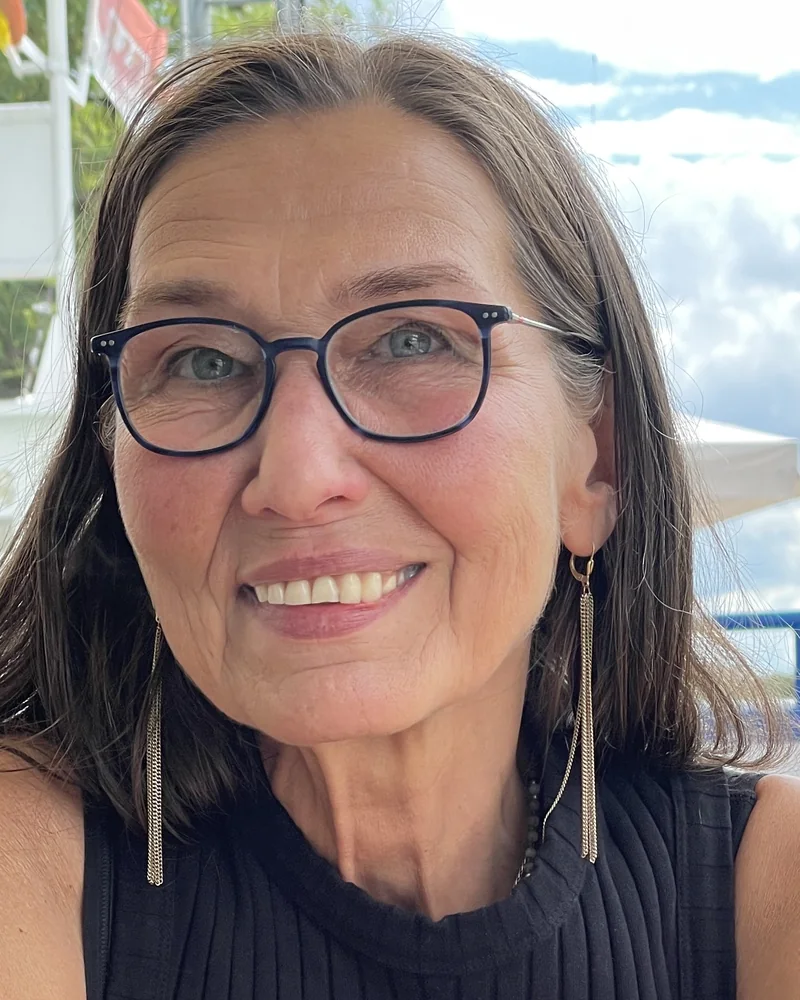
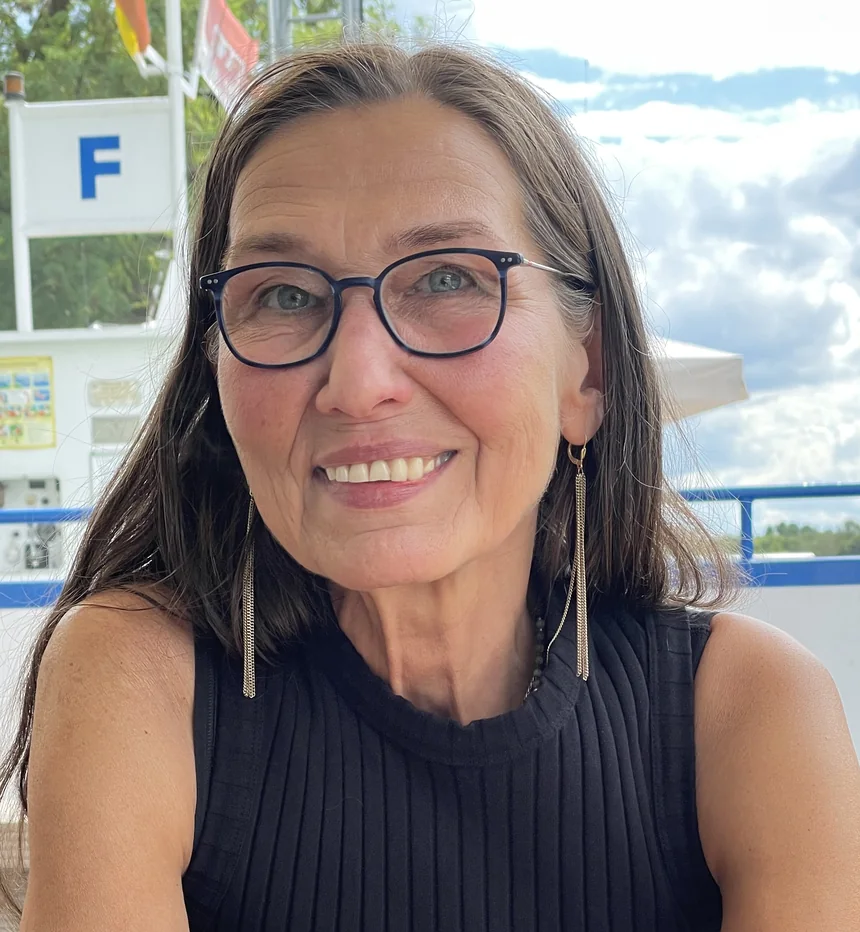
Entwurf aktualisiert, 11.08.2026

diff --git a/index.html b/index.html
@@ -8,13 +8,13 @@
 <title>Govindas Higher Taste, veganes und vegetarisches Catering in Potsdam</title>
 <meta name="description" content="Regionaler Catering-Service aus Potsdam, vegan und vegetarisch unter der Leitung von Katharina Rauch. Für Feiern, Hochzeiten und jedes andere besondere Event.">
 <meta name="theme-color" content="#053014">
-<link rel="icon" href="assets/img/zeichen.png?v=202608110247">
-<link rel="preload" href="assets/fonts/fraunces-latin.woff2?v=202608110247" as="font" type="font/woff2" crossorigin>
-<link rel="preload" href="assets/fonts/karla-latin.woff2?v=202608110247" as="font" type="font/woff2" crossorigin>
-<link rel="stylesheet" href="assets/css/site.css?v=202608110247">
+<link rel="icon" href="assets/img/zeichen.png?v=202608110313">
+<link rel="preload" href="assets/fonts/fraunces-latin.woff2?v=202608110313" as="font" type="font/woff2" crossorigin>
+<link rel="preload" href="assets/fonts/karla-latin.woff2?v=202608110313" as="font" type="font/woff2" crossorigin>
+<link rel="stylesheet" href="assets/css/site.css?v=202608110313">
 <meta property="og:title" content="Govindas Higher Taste, veganes Catering in Potsdam">
 <meta property="og:description" content="Regionaler Catering-Service aus Potsdam, vegan und vegetarisch. Für Feiern, Hochzeiten und Events.">
-<meta property="og:image" content="assets/img/hero.webp?v=202608110247">
+<meta property="og:image" content="assets/img/hero.webp?v=202608110313">
 <meta property="og:type" content="website">
 <script type="application/ld+json">
 {
@@ -42,7 +42,7 @@
 
 <header class="kopf" id="kopf">
   <a class="kopf-logo" href="index.html" aria-label="Govindas Higher Taste, zur Startseite">
-    <img src="assets/img/logo.png?v=202608110247" alt="Govindas Higher Taste Catering" width="760" height="360">
+    <img src="assets/img/logo.png?v=202608110313" alt="Govindas Higher Taste Catering" width="760" height="360">
   </a>
   <button class="nav-schalter" id="navSchalter" aria-label="Menü öffnen" aria-expanded="false" aria-controls="hauptnav">
     <span></span><span></span><span></span>
@@ -61,7 +61,7 @@
 
 <!-- ================================================================ Titel -->
 <section class="hero">
-  <img class="hero-bild" src="assets/img/hero.webp?v=202608110247" alt="Gedeckte Tafel mit Reis, Gemüse, Blüten und Süßem in Holzschalen" width="1920" height="1151" fetchpriority="high">
+  <img class="hero-bild" src="assets/img/hero.webp?v=202608110313" alt="Gedeckte Tafel mit Reis, Gemüse, Blüten und Süßem in Holzschalen" width="1920" height="1151" fetchpriority="high">
   <div class="bahn hero-inhalt auftritt">
     <p class="marke">Govindas Higher Taste Catering Services</p>
     <h1>Kochen als Bestimmung. Kochen als Kunst. Kochen als <em>Dialog</em>.</h1>
@@ -80,7 +80,7 @@
 <!-- ================================================================ Zitat -->
 <section class="zitat" id="zitat">
   <div class="bahn-schmal zitat-inhalt zeigt-sich">
-    <img class="zitat-flamme" src="assets/img/flamme.svg?v=202608110247" alt="" width="46" height="60" aria-hidden="true">
+    <img class="zitat-flamme" src="assets/img/flamme.svg?v=202608110313" alt="" width="46" height="60" aria-hidden="true">
     <blockquote>
       <p lang="en">„The embodied soul may be restricted from sense enjoyment,
       though the taste for sense objects remains. But, even this taste ceases
@@ -97,7 +97,7 @@
 
 <!-- ============================================= Grosses Bild wie im Original -->
 <section class="breitbild zeigt-sich">
-  <img src="assets/img/zutaten.webp?v=202608110247" alt="Hülsenfrüchte, Reis und Getreide in Schalen auf einem Leinentuch" width="1200" height="720" loading="lazy">
+  <img src="assets/img/zutaten.webp?v=202608110313" alt="Hülsenfrüchte, Reis und Getreide in Schalen auf einem Leinentuch" width="1200" height="720" loading="lazy">
 </section>
 
 <!-- =========================================================== Willkommen -->
@@ -122,7 +122,7 @@
         </p>
       </div>
       <div class="duo-bild duo-bild--rahmen zeigt-sich">
-        <img src="assets/img/katharina-portraet.webp?v=202608110247" alt="Katharina Rauch im Abendlicht" width="820" height="863" loading="lazy">
+        <img src="assets/img/katharina-portraet.webp?v=202608110313" alt="Katharina Rauch im Abendlicht" width="820" height="863" loading="lazy">
         <p class="bildunterschrift">Katharina Rauch</p>
       </div>
     </div>
@@ -134,21 +134,21 @@
   <div class="bahn">
     <div class="karten zeigt-sich">
       <article class="karte">
-        <img src="assets/img/karte-erfahrung.webp?v=202608110247" alt="Kichererbsen mit Spinat und Paprika in einer Edelstahlschale" width="760" height="717" loading="lazy">
+        <img src="assets/img/karte-erfahrung.webp?v=202608110313" alt="Kichererbsen mit Spinat und Paprika in einer Edelstahlschale" width="760" height="717" loading="lazy">
         <div class="karte-text">
           <span class="karte-seit">Seit 1996</span>
           <h3>Perfektion durch Erfahrung</h3>
         </div>
       </article>
       <article class="karte">
-        <img src="assets/img/karte-ethisch.webp?v=202608110247" alt="Frisch ausgebackene Pakoras mit Kräutern" width="760" height="717" loading="lazy">
+        <img src="assets/img/karte-ethisch.webp?v=202608110313" alt="Frisch ausgebackene Pakoras mit Kräutern" width="760" height="717" loading="lazy">
         <div class="karte-text">
           <span class="karte-seit">Seit 1996</span>
           <h3>Ethisch und umweltbewusst</h3>
         </div>
       </article>
       <article class="karte">
-        <img src="assets/img/karte-handgemacht.webp?v=202608110247" alt="Hirse, Bohnen und Wildreis auf Leinen" width="760" height="717" loading="lazy">
+        <img src="assets/img/karte-handgemacht.webp?v=202608110313" alt="Hirse, Bohnen und Wildreis auf Leinen" width="760" height="717" loading="lazy">
         <div class="karte-text">
           <span class="karte-seit">Seit 1996</span>
           <h3>Handgemacht mit Leidenschaft</h3>
@@ -161,9 +161,9 @@
 <!-- ============================================================ Philosophie -->
 <section class="abschnitt voll" id="philosophie">
   <div class="bahn">
-    <div class="duo duo--gedreht">
+    <div class="duo duo--gedreht duo--randbild">
       <div class="duo-bild zeigt-sich">
-        <img src="assets/img/gewuerze.webp?v=202608110247" alt="Gewürze, Kräuter und Zimtstangen auf einem Holztisch" width="1200" height="720" loading="lazy">
+        <img src="assets/img/gewuerze.webp?v=202608110313" alt="Gewürze, Kräuter und Zimtstangen auf einem Holztisch" width="1200" height="720" loading="lazy">
       </div>
       <div class="duo-text zeigt-sich">
         <p class="marke">Unsere Philosophie</p>
@@ -192,7 +192,7 @@
 
     <div class="angebote zeigt-sich">
       <article class="angebot">
-        <img class="angebot-bild" src="assets/img/detail-blueten.webp?v=202608110247" alt="Schale mit Rosenblüten und Gewürzen" width="600" height="600" loading="lazy">
+        <img class="angebot-bild" src="assets/img/detail-blueten.webp?v=202608110313" alt="Schale mit Rosenblüten und Gewürzen" width="600" height="600" loading="lazy">
         <h3>Regional und pflanzenbasiert</h3>
         <p>
           Wir setzen auf frische, regionale und naturbelassene Zutaten, um
@@ -200,7 +200,7 @@
         </p>
       </article>
       <article class="angebot">
-        <img class="angebot-bild" src="assets/img/detail-suess.webp?v=202608110247" alt="Kräuterreis und süße Bällchen in Schalen" width="620" height="620" loading="lazy">
+        <img class="angebot-bild" src="assets/img/detail-suess.webp?v=202608110313" alt="Kräuterreis und süße Bällchen in Schalen" width="620" height="620" loading="lazy">
         <h3>Vielfältige Küche</h3>
         <p>
           Lassen Sie sich von unserer veganen und vegetarischen Vielfalt
@@ -209,7 +209,7 @@
         </p>
       </article>
       <article class="angebot">
-        <img class="angebot-bild" src="assets/img/detail-gemuese.webp?v=202608110247" alt="Gemüsereis in einer Holzschale" width="600" height="539" loading="lazy">
+        <img class="angebot-bild" src="assets/img/detail-gemuese.webp?v=202608110313" alt="Gemüsereis in einer Holzschale" width="600" height="539" loading="lazy">
         <h3>Feiern und Hochzeiten</h3>
         <p>
           Ob kleine private Feiern oder große Hochzeitsgesellschaften, wir
@@ -225,7 +225,7 @@
   <div class="bahn">
     <div class="duo">
       <div class="duo-bild zeigt-sich">
-        <img src="assets/img/katharina-lachend.webp?v=202608110247" alt="Katharina Rauch" width="800" height="1000" loading="lazy">
+        <img src="assets/img/katharina-lachend.webp?v=202608110313" alt="Katharina Rauch" width="860" height="932" loading="lazy">
       </div>
       <div class="duo-text zeigt-sich">
         <p class="marke">Über uns</p>
@@ -315,11 +315,11 @@
       <h2>Ein paar Eindrücke</h2>
     </div>
     <div class="galerie zeigt-sich">
-      <figure class="g-a"><img src="assets/img/detail-reis.webp?v=202608110247" alt="Große Holzschale mit Reis" width="680" height="680" loading="lazy"></figure>
-      <figure class="g-b"><img src="assets/img/hero-sm.webp?v=202608110247" alt="Gedeckte Tafel mit vielen Schalen" width="900" height="540" loading="lazy"></figure>
-      <figure class="g-c"><img src="assets/img/detail-kraeuter.webp?v=202608110247" alt="Frische Kräuter und Gewürze" width="700" height="700" loading="lazy"></figure>
-      <figure class="g-d"><img src="assets/img/detail-schalen.webp?v=202608110247" alt="Gewürzschalen aus Stein und Holz" width="700" height="700" loading="lazy"></figure>
-      <figure class="g-e"><img src="assets/img/detail-suess.webp?v=202608110247" alt="Süße Bällchen und Kräuterreis" width="620" height="620" loading="lazy"></figure>
+      <figure class="g-a"><img src="assets/img/g-kichererbsen.webp?v=202608110313" alt="Kichererbsen in einem Leinenbeutel mit Holzlöffel" width="700" height="780" loading="lazy"></figure>
+      <figure class="g-b"><img src="assets/img/g-gewuerze.webp?v=202608110313" alt="Gewürze, Sternanis, Zimt und Kräuter auf einem Holztisch" width="1100" height="852" loading="lazy"></figure>
+      <figure class="g-c"><img src="assets/img/g-wildreis.webp?v=202608110313" alt="Schwarzer Wildreis auf einem Holzbrett" width="660" height="660" loading="lazy"></figure>
+      <figure class="g-d"><img src="assets/img/g-beeren.webp?v=202608110313" alt="Pfefferbeeren, Chili und getrocknete Kräuter" width="660" height="660" loading="lazy"></figure>
+      <figure class="g-e"><img src="assets/img/g-zimt.webp?v=202608110313" alt="Zimtstangen auf dunklem Holz" width="660" height="500" loading="lazy"></figure>
     </div>
   </div>
 </section>
@@ -436,7 +436,7 @@
   <div class="bahn">
     <div class="fuss-raster">
       <div>
-        <img class="fuss-logo" src="assets/img/logo.png?v=202608110247" alt="Govindas Higher Taste Catering" width="760" height="360" loading="lazy">
+        <img class="fuss-logo" src="assets/img/logo.png?v=202608110313" alt="Govindas Higher Taste Catering" width="760" height="360" loading="lazy">
         <address>
           Lennéstraße 23<br>
           14469 Potsdam<br>

diff --git a/katharina-rauch.html b/katharina-rauch.html
@@ -8,16 +8,16 @@
 <title>Katharina Rauch, Köchin und Caterin in Potsdam</title>
 <meta name="description" content="Eine Leidenschaft für gutes Essen und spirituelle Inspiration. Der Weg von Katharina Rauch, von der DDR über die vedische Kochkunst in Heidelberg bis nach Potsdam.">
 <meta name="theme-color" content="#053014">
-<link rel="icon" href="assets/img/zeichen.png?v=202608110247">
-<link rel="preload" href="assets/fonts/fraunces-latin.woff2?v=202608110247" as="font" type="font/woff2" crossorigin>
-<link rel="preload" href="assets/fonts/karla-latin.woff2?v=202608110247" as="font" type="font/woff2" crossorigin>
-<link rel="stylesheet" href="assets/css/site.css?v=202608110247">
+<link rel="icon" href="assets/img/zeichen.png?v=202608110313">
+<link rel="preload" href="assets/fonts/fraunces-latin.woff2?v=202608110313" as="font" type="font/woff2" crossorigin>
+<link rel="preload" href="assets/fonts/karla-latin.woff2?v=202608110313" as="font" type="font/woff2" crossorigin>
+<link rel="stylesheet" href="assets/css/site.css?v=202608110313">
 </head>
 <body>
 
 <header class="kopf kopf--fest" id="kopf">
   <a class="kopf-logo" href="index.html" aria-label="Govindas Higher Taste, zur Startseite">
-    <img src="assets/img/logo.png?v=202608110247" alt="Govindas Higher Taste Catering" width="760" height="360">
+    <img src="assets/img/logo.png?v=202608110313" alt="Govindas Higher Taste Catering" width="760" height="360">
   </a>
   <button class="nav-schalter" id="navSchalter" aria-label="Menü öffnen" aria-expanded="false" aria-controls="hauptnav">
     <span></span><span></span><span></span>
@@ -49,7 +49,7 @@
         </p>
       </div>
       <div class="duo-bild">
-        <img src="assets/img/katharina-lachend.webp?v=202608110247" alt="Katharina Rauch" width="800" height="1000" loading="eager">
+        <img src="assets/img/katharina-lachend.webp?v=202608110313" alt="Katharina Rauch" width="860" height="932" loading="eager">
       </div>
     </div>
   </div>
@@ -138,7 +138,7 @@
   <div class="bahn">
     <div class="duo">
       <div class="duo-bild zeigt-sich">
-        <img src="assets/img/katharina.webp?v=202608110247" alt="Katharina Rauch im Abendlicht" width="1200" height="720" loading="lazy">
+        <img src="assets/img/katharina.webp?v=202608110313" alt="Katharina Rauch im Abendlicht" width="1200" height="720" loading="lazy">
       </div>
       <div class="duo-text zeigt-sich">
         <p class="marke">Und jetzt Ihre Feier</p>
@@ -161,7 +161,7 @@
   <div class="bahn">
     <div class="fuss-raster">
       <div>
-        <img class="fuss-logo" src="assets/img/logo.png?v=202608110247" alt="Govindas Higher Taste Catering" width="760" height="360" loading="lazy">
+        <img class="fuss-logo" src="assets/img/logo.png?v=202608110313" alt="Govindas Higher Taste Catering" width="760" height="360" loading="lazy">
         <address>
           Lennéstraße 23<br>
           14469 Potsdam<br>

diff --git a/assets/css/site.css b/assets/css/site.css
@@ -57,6 +57,8 @@
 
   --bahn: min(1200px, 100% - 3rem);
   --bahn-schmal: min(760px, 100% - 3rem);
+  /* Abstand von der Bahn zum Bildschirmrand, fuer Bilder die hinauslaufen */
+  --seitenrand: max(1.5rem, calc((100vw - 1200px) / 2));
   --ruhig: cubic-bezier(.22, .61, .36, 1);
 }
 
@@ -167,12 +169,14 @@ section { position: relative; }
   flex-direction: column;
   justify-content: center;
 }
-/* Damit auch hohe Bilder in den Bildschirm passen und nicht unten abreissen */
+/* Hohe Bilder passen in den Bildschirm, indem sie kleiner werden, nicht indem
+   sie beschnitten werden. Ein Portraet darf nicht ins Gesicht gezoomt wirken. */
 .voll .duo-bild img {
-  max-height: 66svh;
-  width: 100%;
-  object-fit: cover;
-  object-position: center 26%;
+  max-height: 68svh;
+  width: auto;
+  max-width: 100%;
+  margin-inline: auto;
+  object-fit: contain;
 }
 
 /* Die feste Kopfzeile darf den Anfang eines Abschnitts nicht verdecken */
@@ -421,6 +425,18 @@ section { position: relative; }
 
 .duo-bild { position: relative; }
 .duo-bild img { width: 100%; }
+
+/* Bild laeuft bis zum Bildschirmrand, damit es Gewicht bekommt */
+.duo--randbild { align-items: center; }
+.duo--randbild .duo-bild { margin-right: calc(var(--seitenrand) * -1); }
+.duo--randbild .duo-bild img {
+  width: 100%;
+  max-width: none;
+  max-height: 76svh;
+  object-fit: cover;
+  margin-inline: 0;
+}
+
 .duo-bild--rahmen::before {
   content: '';
   position: absolute;
@@ -747,10 +763,11 @@ form { display: grid; gap: 1.25rem; }
 }
 .seitenkopf--duo .duo { align-items: center; }
 .seitenkopf--duo .duo-bild img {
-  max-height: min(62svh, 620px);
-  width: 100%;
-  object-fit: cover;
-  object-position: center 22%;
+  max-height: min(66svh, 660px);
+  width: auto;
+  max-width: 100%;
+  margin-inline: auto;
+  object-fit: contain;
 }
 .seitenkopf--duo h1 { font-size: clamp(2rem, 1.3rem + 2.6vw, 3.4rem); }
 @media (max-width: 900px) {
@@ -800,6 +817,10 @@ form { display: grid; gap: 1.25rem; }
   .breitbild { width: 100%; margin-block: clamp(2.5rem, 5vw, 4rem); }
   .duo { grid-template-columns: 1fr; }
   .duo--gedreht .duo-bild { order: 0; }
+  /* Am Handy fuellt das Bild ohnehin die volle Spalte, der Ausbruch ueber den
+     Rand entfaellt. Er wuerde je nach Bildlaufleiste ein paar Pixel zu breit. */
+  .duo--randbild .duo-bild { margin-inline: 0; }
+  .duo--randbild .duo-bild img { max-height: 52svh; }
   .kontakt-raster { grid-template-columns: 1fr; }
   .fuss-raster { grid-template-columns: 1fr 1fr; }
   .schritt::after { display: none; }

diff --git a/impressum.html b/impressum.html
@@ -8,14 +8,14 @@
 <title>Impressum, Govindas Higher Taste Catering Services</title>
 <meta name="description" content="Impressum und Anbieterkennzeichnung von Govindas Higher Taste Catering Services, Katharina Rauch, Potsdam.">
 <meta name="theme-color" content="#053014">
-<link rel="icon" href="assets/img/zeichen.png?v=202608110247">
-<link rel="stylesheet" href="assets/css/site.css?v=202608110247">
+<link rel="icon" href="assets/img/zeichen.png?v=202608110313">
+<link rel="stylesheet" href="assets/css/site.css?v=202608110313">
 </head>
 <body>
 
 <header class="kopf kopf--fest" id="kopf">
   <a class="kopf-logo" href="index.html" aria-label="Govindas Higher Taste, zur Startseite">
-    <img src="assets/img/logo.png?v=202608110247" alt="Govindas Higher Taste Catering" width="760" height="360">
+    <img src="assets/img/logo.png?v=202608110313" alt="Govindas Higher Taste Catering" width="760" height="360">
   </a>
   <button class="nav-schalter" id="navSchalter" aria-label="Menü öffnen" aria-expanded="false" aria-controls="hauptnav">
     <span></span><span></span><span></span>

diff --git a/datenschutz.html b/datenschutz.html
@@ -8,14 +8,14 @@
 <title>Datenschutzerklärung, Govindas Higher Taste Catering Services</title>
 <meta name="description" content="Datenschutzerklärung von Govindas Higher Taste Catering Services, Katharina Rauch, Potsdam.">
 <meta name="theme-color" content="#053014">
-<link rel="icon" href="assets/img/zeichen.png?v=202608110247">
-<link rel="stylesheet" href="assets/css/site.css?v=202608110247">
+<link rel="icon" href="assets/img/zeichen.png?v=202608110313">
+<link rel="stylesheet" href="assets/css/site.css?v=202608110313">
 </head>
 <body>
 
 <header class="kopf kopf--fest" id="kopf">
   <a class="kopf-logo" href="index.html" aria-label="Govindas Higher Taste, zur Startseite">
-    <img src="assets/img/logo.png?v=202608110247" alt="Govindas Higher Taste Catering" width="760" height="360">
+    <img src="assets/img/logo.png?v=202608110313" alt="Govindas Higher Taste Catering" width="760" height="360">
   </a>
   <button class="nav-schalter" id="navSchalter" aria-label="Menü öffnen" aria-expanded="false" aria-controls="hauptnav">
     <span></span><span></span><span></span>
